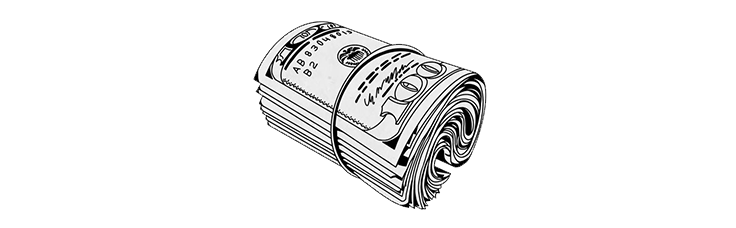
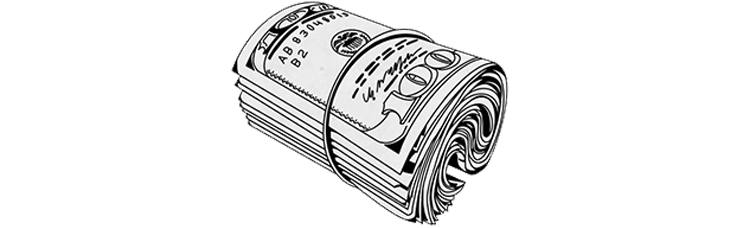
fix

Changed region(s): [[0.3125, 0.0, 0.6875, 1.0]]

diff --git a/_includes/home/projects.html b/_includes/home/projects.html
@@ -7,7 +7,7 @@
   </div>
 
   <div class="col col-12 projects-illustration">
-    <img src="/img/money.png" class="img-full-width" alt="an illustration of me digging with a shovel" width="348" />
+    <img src="/img/money.png" class="img-full-width" alt="an illustration of me digging with a shovel" width="450" />
   </div>
 
   {% for project in site.data.projects %}
